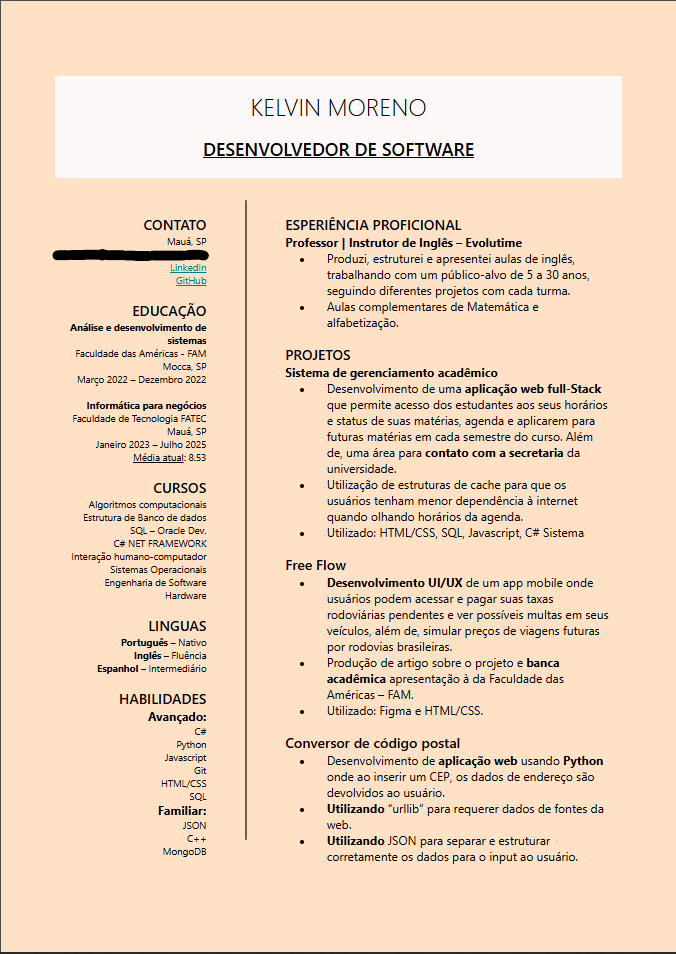
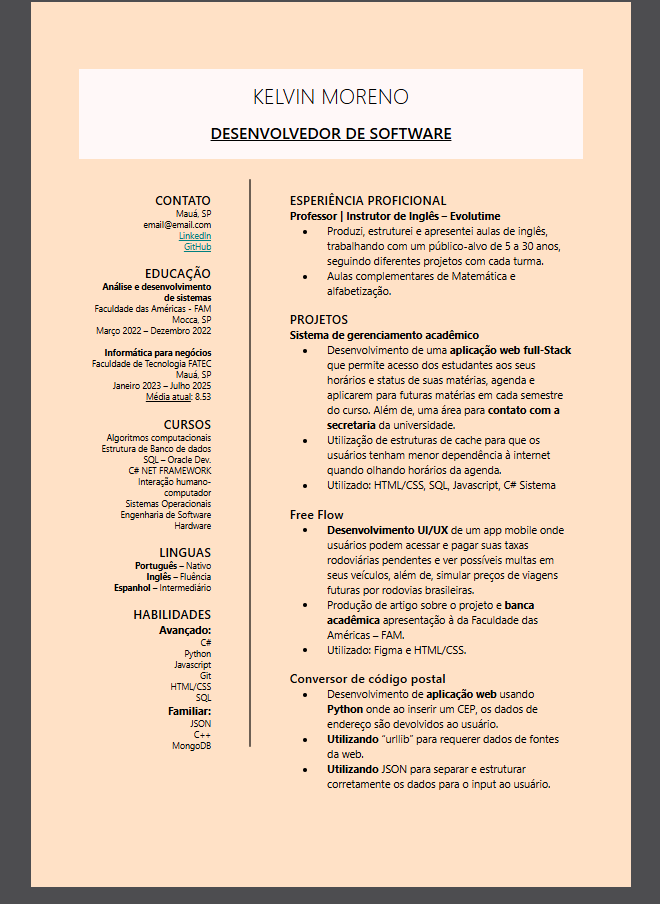
Last one

Changed region(s): [[0.0, 0.0, 1.0, 1.0], [0.4242, 0.2168, 0.9091, 0.9292]]

diff --git a/CURRICULO-KELVIN.html b/CURRICULO-KELVIN.html
@@ -1,4 +1,5 @@
 <!DOCTYPE html>
+<!-- saved from url=(0040)http://127.0.0.1:5500/curriculo%201.html -->
 <html leng="pt">
   <head>
     <meta http-equiv="Content-Type" content="text/html; charset=UTF-8" />
@@ -24,10 +25,13 @@
           <h3>CONTATO</h3>
           <p id="left">
             Mauá, SP <br />
-            Email --- <br />
-            <a href="http://www.linkedin.com/in/kelvinmoreno">LinkedIn</a>
+            email@email.com <br />
+            <a href="http://127.0.0.1:5500/www.linkedin.com/kelvinmoreno"
+              >LinkedIn</a
+            >
             <br />
-            <a href="http://www.github.com/moernlk">GitHub</a> <br />
+            <a href="http://127.0.0.1:5500/www.github.com/moernlk">GitHub</a>
+            <br />
           </p>
           <h3>EDUCAÇÃO</h3>
           <p id="left">

diff --git a/style.css b/style.css
@@ -67,7 +67,7 @@ p {
   justify-content: right;
   align-content: right;
 
-  width: 40%;
+  min-width: 25%;
 }
 #left {
   font-size: small;
